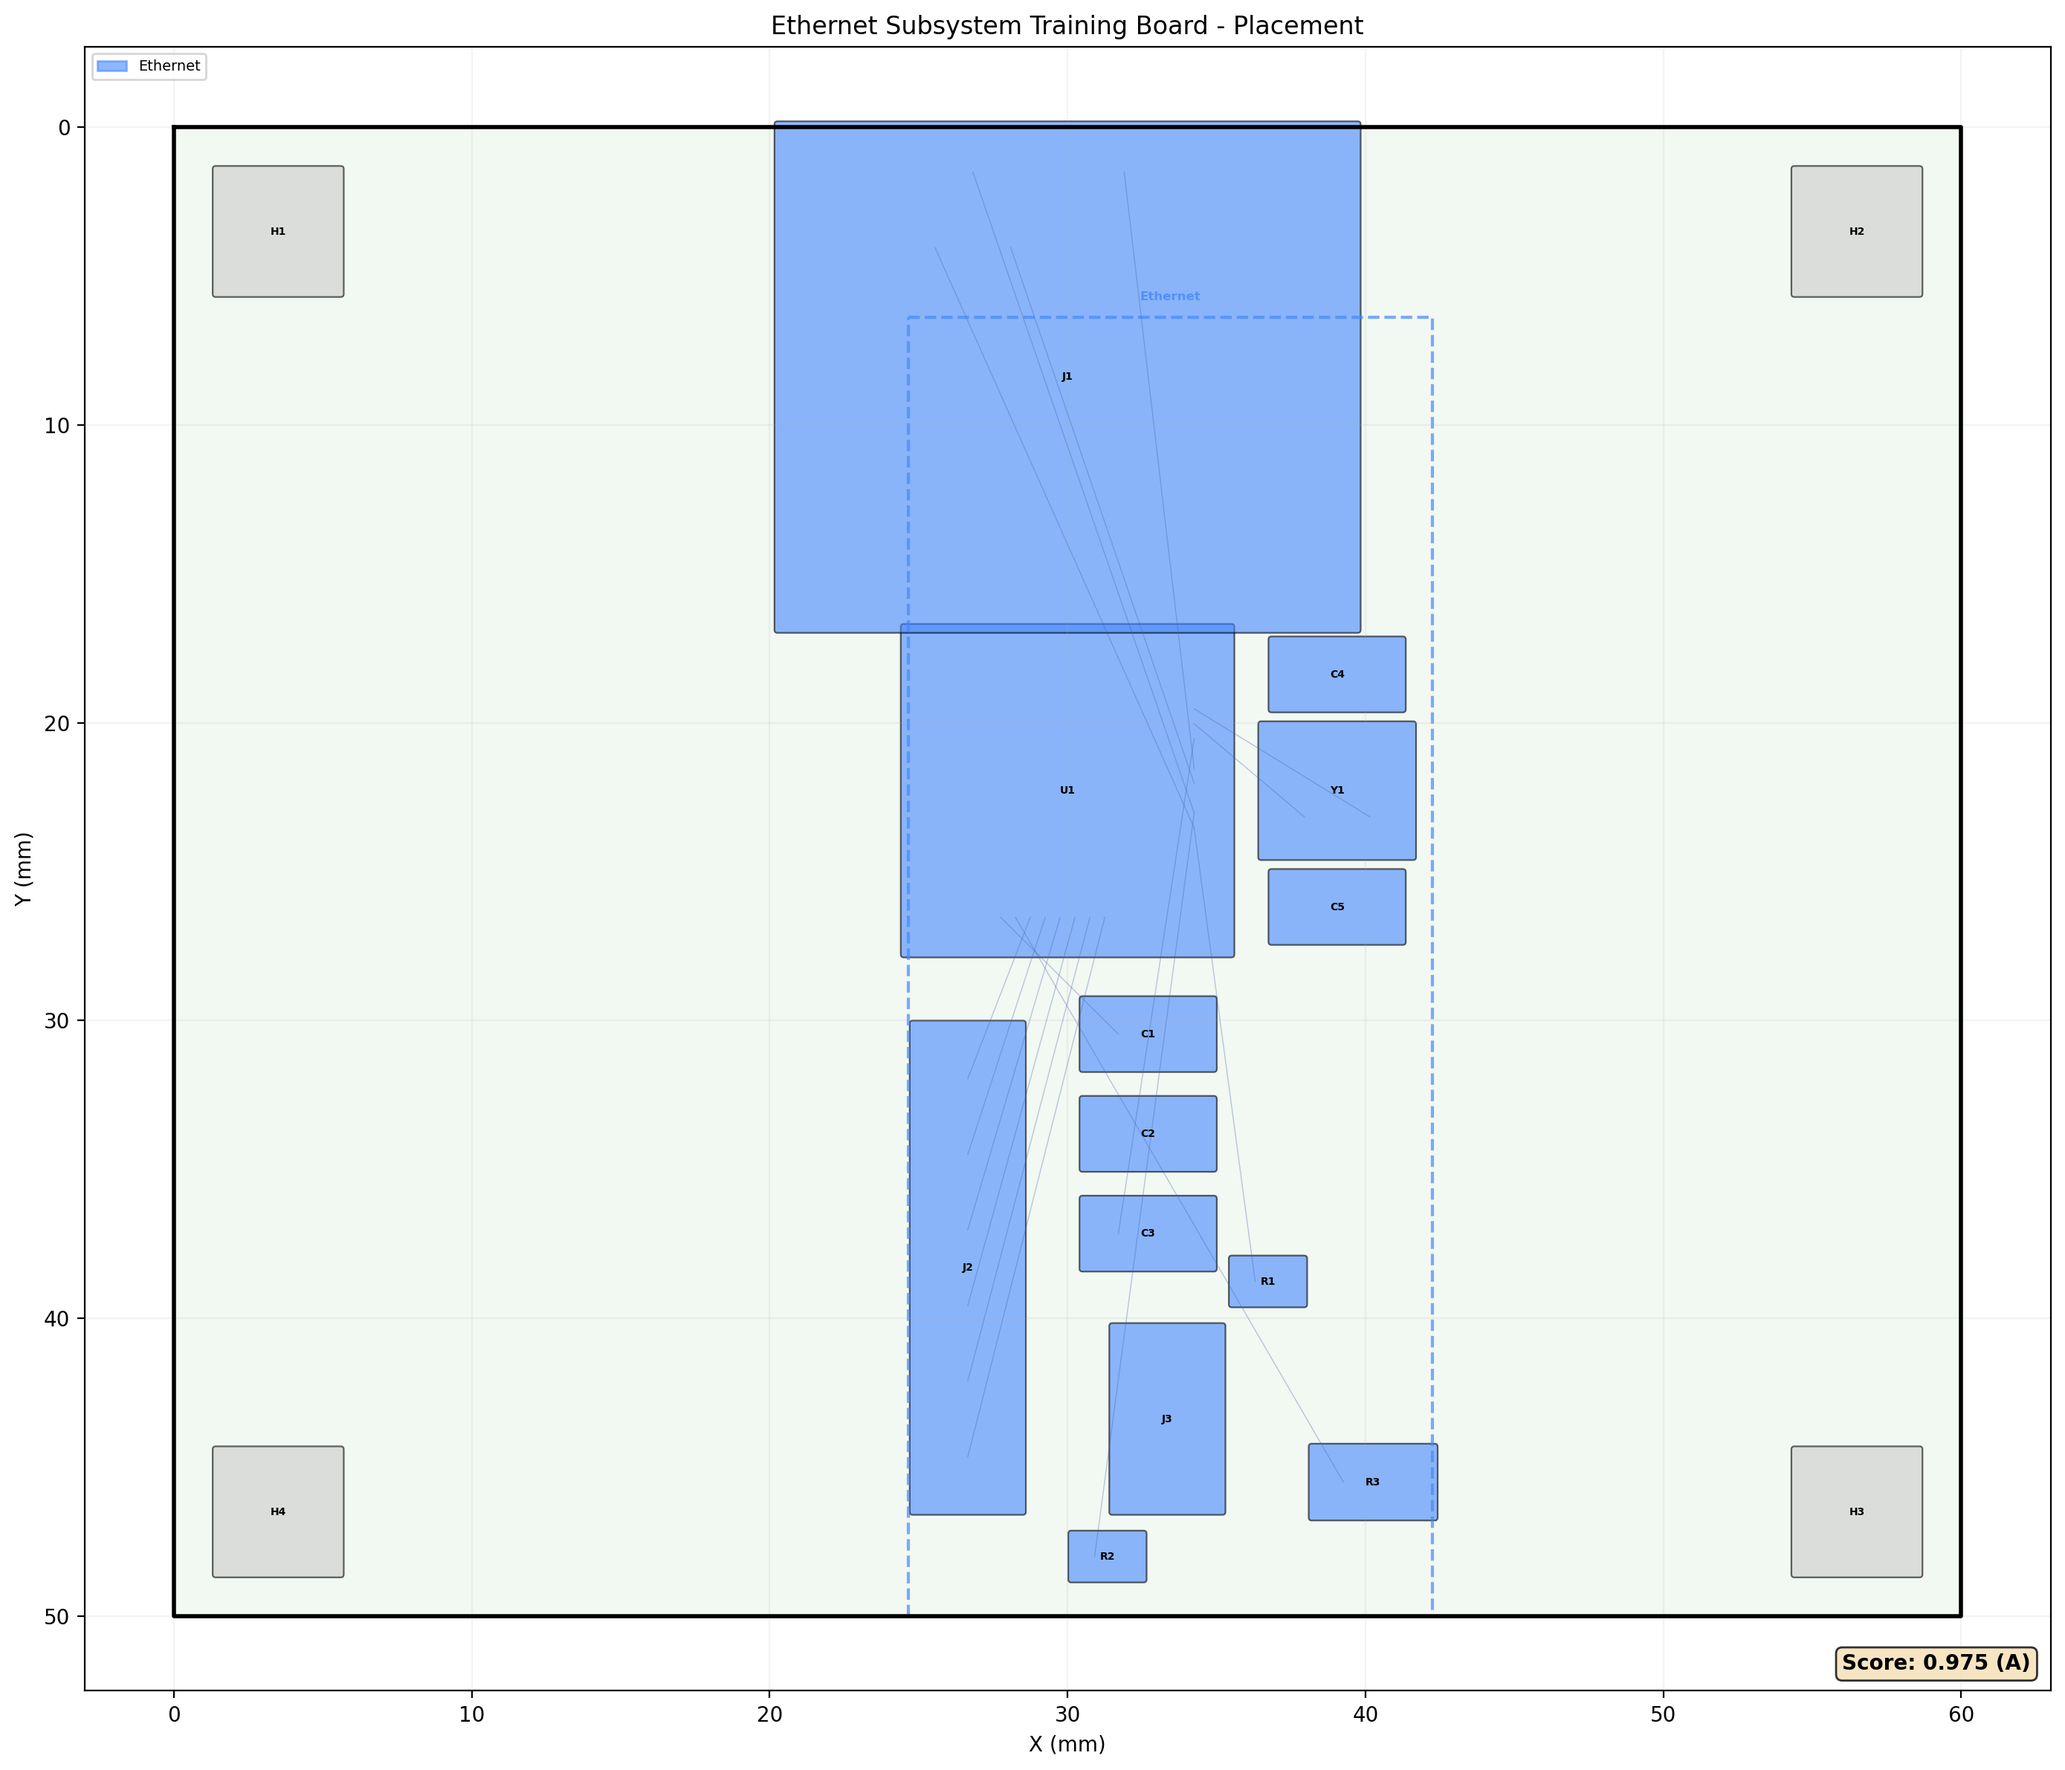
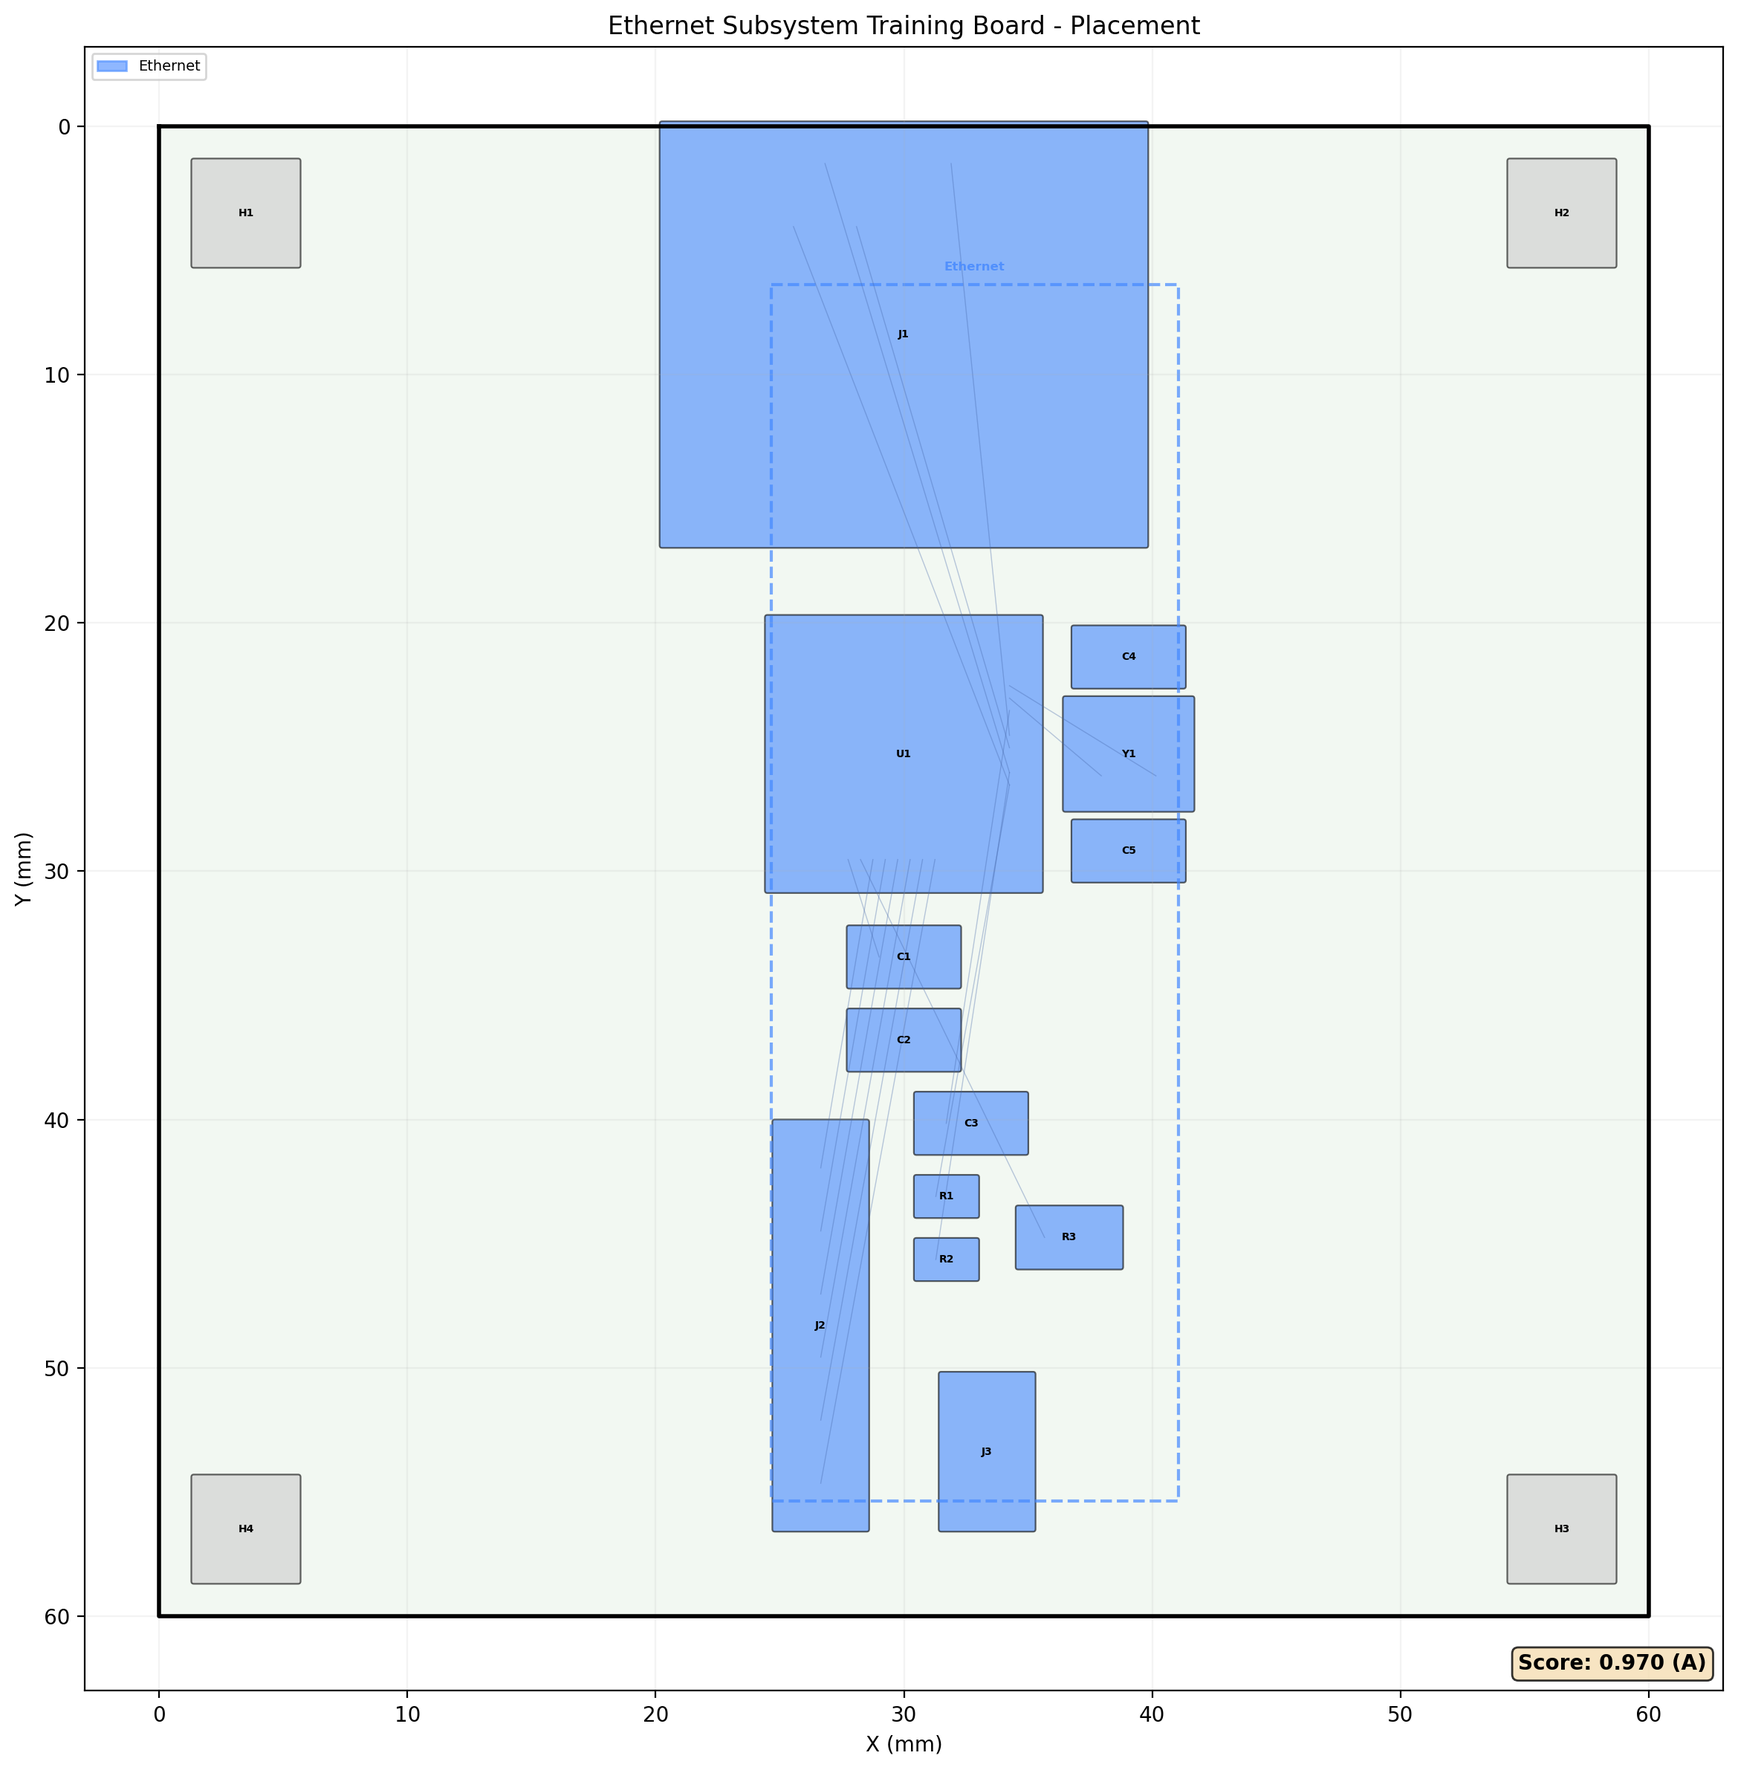
pcb-review: iter4 — fix ethernet U1/J1 collision (increase RJ45-IC gap to 5mm, board height 50→60mm)

diff --git a/src/kicad_pipeline/optimization/ee_phases_groups.py b/src/kicad_pipeline/optimization/ee_phases_groups.py
@@ -3191,8 +3191,9 @@ def _phase_ethernet_group(ctx: PlacementContext) -> None:
     _eth_place_rj45_connectors(
         ctx, eth_connectors, eth_anchor_x, eth_grid, placed_eth, eth_zone_rect,
     )
-    # IC anchor: 2 mm below the lowest RJ45 pad, derived from actual geometry.
-    ic_anchor_y = _eth_connector_pad_bottom(ctx, eth_connectors, placed_eth, gap_mm=2.0)
+    # IC anchor: 5 mm below the lowest RJ45 pad, derived from actual geometry.
+    # 2mm was too tight — JLCPCB footprint courtyards extend beyond pads.
+    ic_anchor_y = _eth_connector_pad_bottom(ctx, eth_connectors, placed_eth, gap_mm=5.0)
     # Fallback if no connectors were placed (boards without RJ45).
     if not eth_connectors or not any(r in placed_eth for r in eth_connectors):
         max_conn_h = max(

diff --git a/scripts/train_ethernet.py b/scripts/train_ethernet.py
@@ -104,7 +104,7 @@ _HEADER_2P_FP = "PinHeader_1x02_P2.54mm_Vertical"
 # ---------------------------------------------------------------------------
 
 _BOARD_WIDTH_MM = 60.0
-_BOARD_HEIGHT_MM = 50.0
+_BOARD_HEIGHT_MM = 60.0
 
 # Design rule thresholds (mm)
 #
